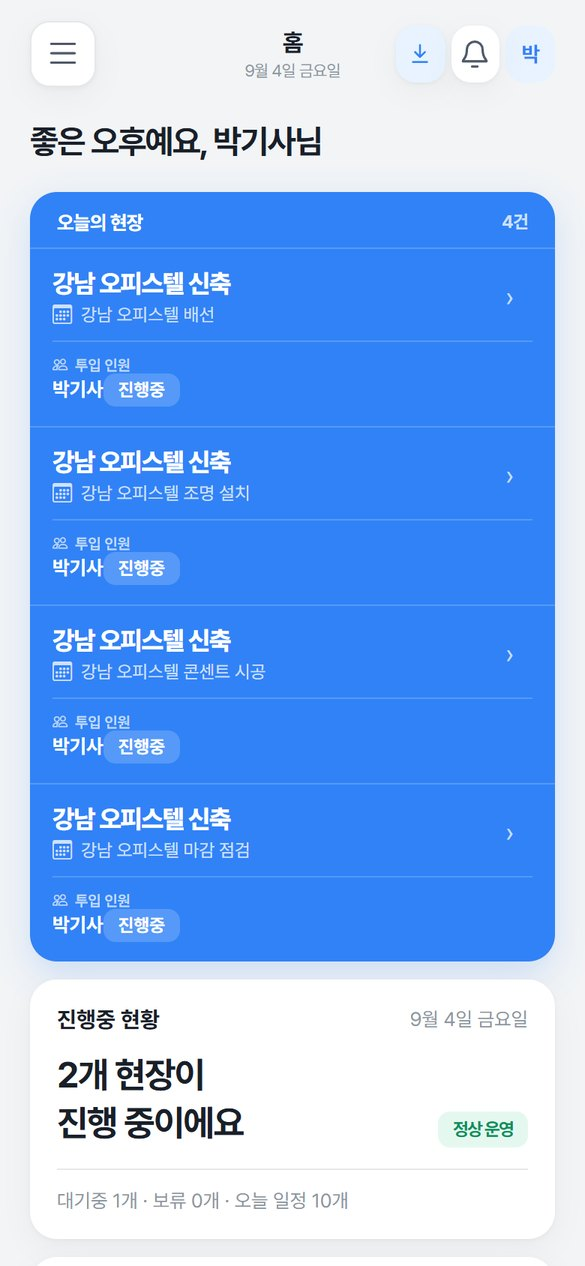
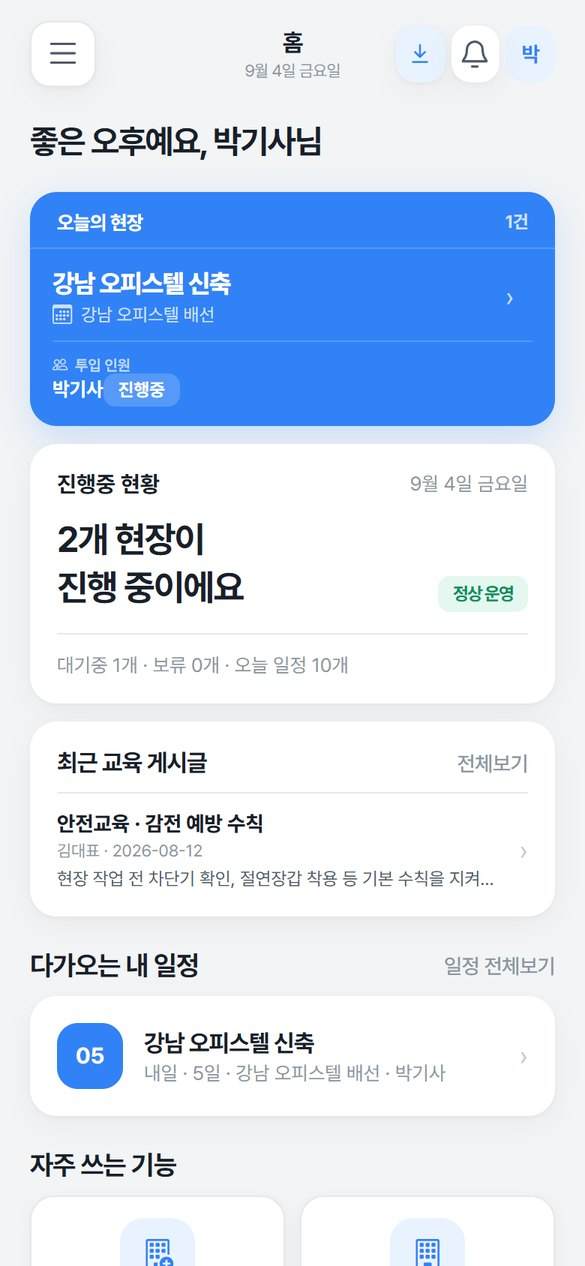
가이드에 앱 설치 안내를 맨 앞에 추가하고 지적사항 반영
설치를 못 해서 시작조차 못 하는 경우가 가장 많다. 그래서
기능 설명보다 앞에 두고, 기기별로 어떤 브라우저를 써야 하는지
명시했다. 카카오톡 안에서 열면 설치가 안 되는 점도 적었다.

- 앱 설치 섹션 신설: 아이폰(사파리) / 안드로이드(크롬) / PC
- 앱 설치 버튼 위치를 실제 화면에 빨간 표시로 안내
- 직원 홈 화면 재촬영: 오늘의 현장 4건 중복 → 1건
- 경비 정산 문구를 "대표님이 정산 완료하면 알림이 옵니다"로 수정
- PC 접속 안내에서 주소를 빼고 "보내준 링크"로 변경

diff --git a/guide.html b/guide.html
@@ -112,6 +112,29 @@ tr:last-child td{border-bottom:none}
 .n{color:var(--gray)}
 .p{color:var(--blue-d);font-weight:700}
 
+
+/* ── 앱 설치 ── */
+.inst{display:grid;grid-template-columns:repeat(auto-fit,minmax(280px,1fr));gap:16px}
+.inst-c{border:1px solid var(--line);border-radius:16px;padding:24px 22px;background:#fff}
+.inst-h{display:flex;align-items:center;gap:10px;font-size:18px;font-weight:700;letter-spacing:-.03em}
+.os{width:26px;height:26px;border-radius:8px;background:var(--ink);flex-shrink:0}
+.os.and{background:var(--green)} .os.pc{background:var(--blue)}
+.must{margin-top:14px;font-size:14px;font-weight:700;color:var(--blue-d);
+  background:var(--blue-s);border-radius:9px;padding:9px 13px;display:inline-block}
+.inst-s{margin:16px 0 0 0;padding-left:0;list-style:none;counter-reset:i;display:grid;gap:9px}
+.inst-s li{counter-increment:i;position:relative;padding-left:30px;font-size:15px;color:var(--ink2)}
+.inst-s li::before{content:counter(i);position:absolute;left:0;top:2px;width:21px;height:21px;
+  border-radius:6px;background:var(--bg3);color:var(--ink);font-size:12px;font-weight:800;
+  display:grid;place-items:center}
+.inst-s b{color:var(--ink);font-weight:700}
+.warn{margin-top:14px;font-size:13.5px;color:var(--gray);line-height:1.65;word-break:keep-all}
+.btn-where{margin-top:26px;background:var(--bg2);border:1px solid var(--line);
+  border-radius:16px;padding:22px}
+.bw-t{font-size:15px;font-weight:700;margin-bottom:14px}
+.bw-row{display:grid;gap:14px}
+.bw-k{display:block;font-size:12.5px;font-weight:700;color:var(--gray);margin-bottom:7px}
+.bw-row img{border:1px solid var(--line);border-radius:10px}
+
 /* ── 팁 ── */
 .tip{margin-top:26px;padding:20px 22px;border-radius:14px;background:var(--blue-s);
   border-left:3px solid var(--blue);font-size:15px;color:var(--ink2);word-break:keep-all}
@@ -157,6 +180,7 @@ footer a{color:var(--ink2);font-weight:600;margin-right:16px}
       아래는 실제 앱 화면으로 각각 무엇을 할 수 있는지 정리한 것입니다.</p>
 
     <div class="toc">
+      <a href="#install"><span class="ic">📲</span><span><b>앱 설치하기</b><span>가장 먼저 하실 것</span></span></a>
       <a href="#owner"><span class="ic">👔</span><span><b>대표님 화면</b><span>돈·현장·사람 전부</span></span></a>
       <a href="#member"><span class="ic">🔧</span><span><b>직원 화면</b><span>현장 기록과 내 근태</span></span></a>
       <a href="#perm"><span class="ic">🔐</span><span><b>권한 설정</b><span>누가 뭘 보게 할지</span></span></a>
@@ -164,6 +188,71 @@ footer a{color:var(--ink2);font-weight:600;margin-right:16px}
     </div>
   </div>
 </div>
+
+<!-- ═══════════ 앱 설치 ═══════════ -->
+<section id="install">
+  <div class="wrap">
+    <div class="sec-h">
+      <span class="badge o">가장 먼저</span>
+      <h2>앱 설치하기</h2>
+      <p>현장대장은 앱스토어에서 받지 않습니다. 설치 파일도 없습니다.
+        <b>현장대장에서 보내드린 링크</b>로 접속해서 <b>앱 설치</b> 버튼만 누르면 끝입니다.
+        휴대폰 홈 화면에 아이콘이 생기고, 그다음부터는 일반 앱처럼 아이콘을 눌러 쓰시면 됩니다.</p>
+    </div>
+
+    <div class="inst">
+      <div class="inst-c">
+        <div class="inst-h"><span class="os"></span><b>아이폰 · 아이패드</b></div>
+        <p class="must">반드시 <b>사파리</b>로 열어주세요</p>
+        <ol class="inst-s">
+          <li>받으신 링크를 <b>사파리</b>에서 엽니다</li>
+          <li>화면 위쪽 <b>앱 설치</b>를 누릅니다</li>
+          <li>안내를 따라가면 홈 화면에 아이콘이 생깁니다</li>
+        </ol>
+        <p class="warn">크롬이나 카카오톡 안에서 열면 설치 버튼이 동작하지 않습니다.
+          링크를 길게 눌러 복사한 뒤 사파리에 붙여넣어 주세요.</p>
+      </div>
+
+      <div class="inst-c">
+        <div class="inst-h"><span class="os and"></span><b>안드로이드</b></div>
+        <p class="must">반드시 <b>크롬</b>으로 열어주세요</p>
+        <ol class="inst-s">
+          <li>받으신 링크를 <b>크롬</b>에서 엽니다</li>
+          <li>화면 위쪽 <b>앱 설치</b>를 누릅니다</li>
+          <li>설치를 확인하면 홈 화면에 아이콘이 생깁니다</li>
+        </ol>
+        <p class="warn">삼성 인터넷이나 카카오톡 안에서 열면 설치가 안 될 수 있습니다.
+          링크를 복사해 크롬에 붙여넣어 주세요.</p>
+      </div>
+
+      <div class="inst-c">
+        <div class="inst-h"><span class="os pc"></span><b>컴퓨터</b></div>
+        <p class="must">크롬 또는 엣지</p>
+        <ol class="inst-s">
+          <li>받으신 링크를 브라우저에서 엽니다</li>
+          <li>오른쪽 위 <b>앱 설치</b>를 누릅니다</li>
+          <li>바탕화면에 아이콘이 생깁니다</li>
+        </ol>
+        <p class="warn">설치하지 않고 즐겨찾기에 넣어 쓰셔도 똑같이 동작합니다.</p>
+      </div>
+    </div>
+
+    <div class="btn-where">
+      <p class="bw-t">앱 설치 버튼은 여기 있습니다</p>
+      <div class="bw-row">
+        <div><span class="bw-k">휴대폰</span>
+          <img src="/img/guide/install-mobile.jpg" alt="휴대폰 앱 설치 버튼 위치" loading="lazy"></div>
+        <div><span class="bw-k">컴퓨터</span>
+          <img src="/img/guide/install-pc.jpg" alt="컴퓨터 앱 설치 버튼 위치" loading="lazy"></div>
+      </div>
+    </div>
+
+    <div class="tip"><b>설치하면 뭐가 좋아지나요.</b>
+      주소창 없이 화면을 넓게 쓰고, 매번 링크를 찾지 않아도 됩니다.
+      무엇보다 <b>알림을 받을 수 있습니다.</b> 자재 요청이 올라오거나 경비 정산이 끝나면
+      휴대폰으로 바로 알려줍니다.</div>
+  </div>
+</section>
 
 <!-- ═══════════ 대표님 ═══════════ -->
 <section id="owner">
@@ -288,7 +377,7 @@ footer a{color:var(--ink2);font-weight:600;margin-right:16px}
     </div>
 
     <div class="tip"><b>PC로 보시면 더 편합니다.</b>
-      사무실에서는 컴퓨터 브라우저로 <b>app.fieldboss.co.kr</b> 에 접속하시면
+      사무실에서는 컴퓨터 브라우저로 <b>현장대장에서 보내준 링크</b>로 접속하시면
       왼쪽 메뉴와 넓은 화면으로 같은 내용을 보실 수 있습니다. 현장에서는 휴대폰, 사무실에서는 PC로 쓰시면 됩니다.</div>
 
     <div class="shot-pc"><div class="bar"><i></i><i></i><i></i></div>
@@ -359,7 +448,7 @@ footer a{color:var(--ink2);font-weight:600;margin-right:16px}
           <div class="step"><span class="k">날짜 누르기</span><p>달력에서 날짜를 눌러 출근을 기록합니다.</p></div>
           <div class="step"><span class="k">연장근로</span><p>야근한 날은 시간을 같이 넣습니다. 달력에 <b>+2h</b> 처럼 표시됩니다.</p></div>
           <div class="step"><span class="k">내 경비 정산</span><p>내 카드로 쓴 자재비·주유비를 영수증 찍어 올립니다.
-            대표님이 승인하면 알림이 옵니다.</p></div>
+            대표님이 정산 완료하면 알림이 옵니다.</p></div>
           <div class="step"><span class="k">팀원 명단</span><p>같이 일하는 사람 이름과 연락처를 봅니다.</p></div>
         </div>
       </div>
